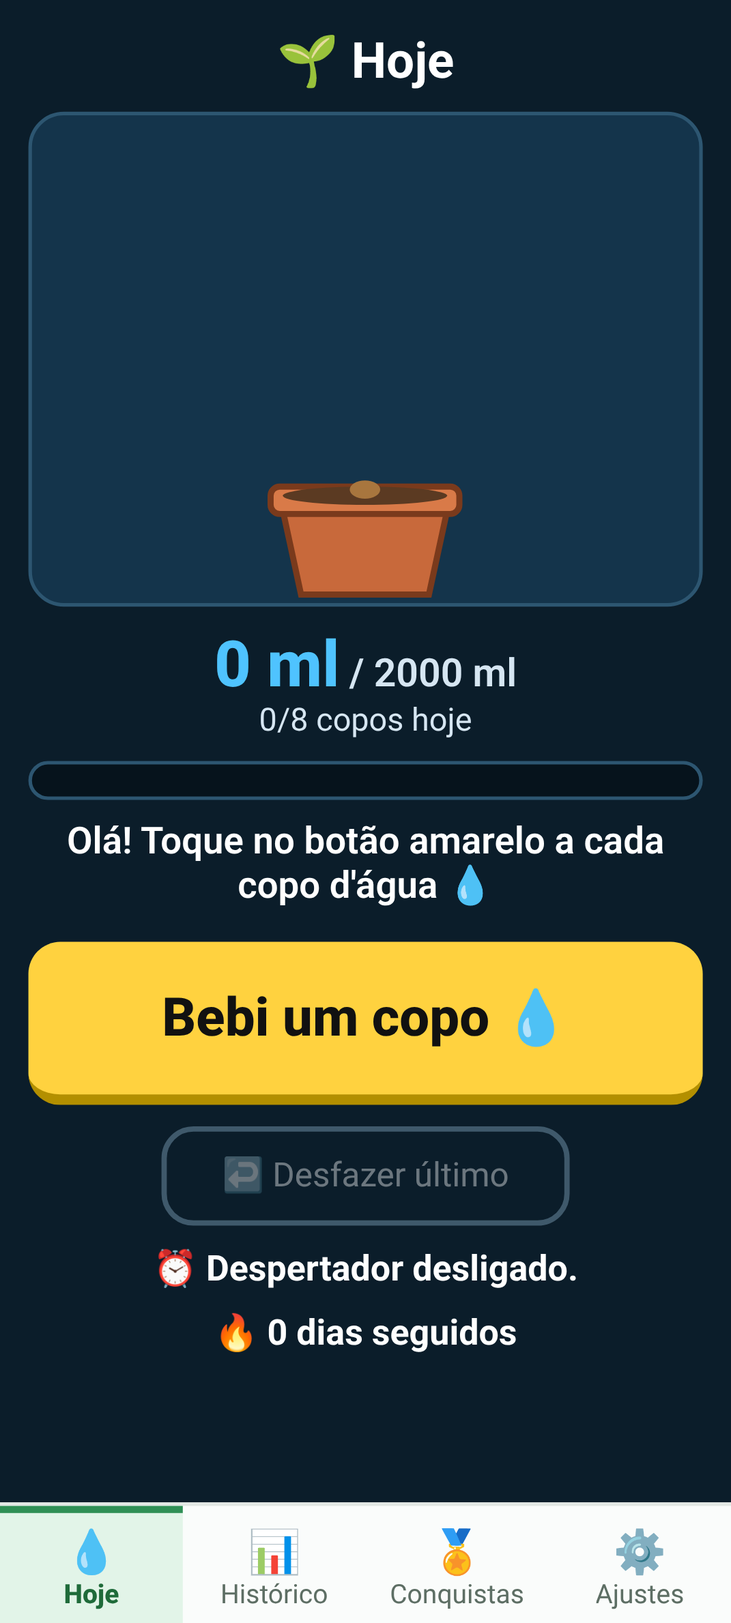
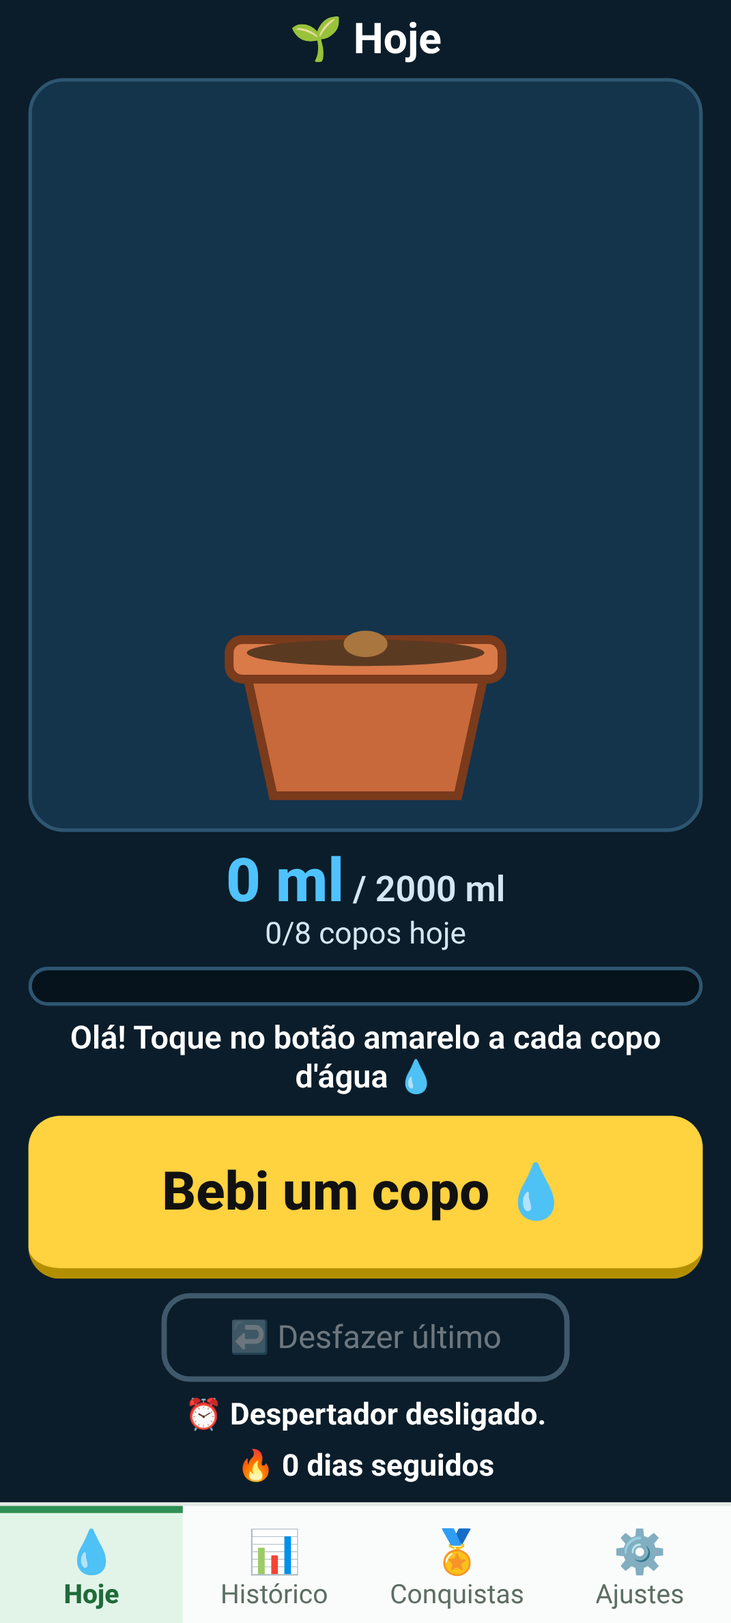
Sem rolagem em nenhuma tela (#6)
* Encaixe: componente que faz o conteúdo caber inteiro na área (sem rolagem); reduz em escala só se não couber

* Sem rolagem: Tela sem ScrollView (usa Encaixe); Hoje com planta que ocupa o espaço que sobra; Histórico com barras em % da área; Ajustes compacto (intervalos numa linha, Das/Até lado a lado, testes lado a lado); janelas meta e alarme com Encaixe; fontes e espaços menores

* Teste web: sem-rolagem.cjs (412x915, 360x740; 360x640 e fonte 1,3x informativos) em todas as abas e janelas; teste-web.cjs sem scrollIntoView e +4 itens [sem rolagem] (46); prints-abas.cjs aceita LxA e fotografa as janelas

* README/REGISTRO: sem rolagem (Encaixe, testes, checklist do A14)

---------

diff --git a/src/telas/estilos.ts b/src/telas/estilos.ts
@@ -1,56 +1,60 @@
-// Estilos das 4 abas (mesmas medidas e cores do PWA v5; os novos das abas estão no fim).
+// Estilos das 4 abas (cores do PWA v5; medidas compactadas para NENHUMA tela rolar: v1.2.0 sem rolagem).
 import { StyleSheet } from 'react-native';
 import { cor } from '../tema';
 
 export const st = StyleSheet.create({
   fundo: { flex: 1, backgroundColor: cor.fundo },
-  rolagem: { alignItems: 'center' },
-  main: { width: '100%', maxWidth: 480, paddingTop: 14, paddingHorizontal: 16, paddingBottom: 28, gap: 12 },
-  h1: { fontSize: 28, fontWeight: '700', color: cor.texto, textAlign: 'center', marginTop: 4 },
-  h2: { fontSize: 22, fontWeight: '700', color: cor.texto },
+  centro: { alignItems: 'center' },
+  main: { flexGrow: 1, width: '100%', maxWidth: 480, paddingTop: 8, paddingHorizontal: 16, paddingBottom: 10, gap: 8 },
+  h1: { fontSize: 24, fontWeight: '700', color: cor.texto, textAlign: 'center' },
+  h2: { fontSize: 19, fontWeight: '700', color: cor.texto },
   barra: { height: 22, backgroundColor: cor.escuro, borderRadius: 12, overflow: 'hidden', borderWidth: 2, borderColor: cor.borda },
   barraIn: { height: '100%', backgroundColor: cor.agua },
-  palco: { backgroundColor: '#14344b', borderRadius: 20, borderWidth: 2, borderColor: cor.borda, overflow: 'hidden', position: 'relative' },
-  msg: { fontSize: 21, color: cor.texto, textAlign: 'center', minHeight: 56, fontWeight: '600' },
-  msgAlerta: { backgroundColor: cor.alertaFundo, borderWidth: 2, borderColor: cor.botao, borderRadius: 14, padding: 10 },
-  beber: { backgroundColor: cor.botao, borderRadius: 18, paddingVertical: 22, paddingHorizontal: 10, minHeight: 92, justifyContent: 'center', borderBottomWidth: 6, borderBottomColor: cor.botaoSombra },
+  palco: { flexGrow: 1, flexBasis: 0, minHeight: 90, alignItems: 'center', justifyContent: 'center', backgroundColor: '#14344b', borderRadius: 20, borderWidth: 2, borderColor: cor.borda, overflow: 'hidden', position: 'relative' },
+  msg: { fontSize: 18, color: cor.texto, textAlign: 'center', minHeight: 46, fontWeight: '600' },
+  msgAlerta: { backgroundColor: cor.alertaFundo, borderWidth: 2, borderColor: cor.botao, borderRadius: 14, paddingVertical: 4, paddingHorizontal: 8 },
+  beber: { backgroundColor: cor.botao, borderRadius: 18, paddingVertical: 12, paddingHorizontal: 10, minHeight: 92, justifyContent: 'center', borderBottomWidth: 6, borderBottomColor: cor.botaoSombra },
   beberTx: { fontSize: 30, fontWeight: '800', color: cor.botaoTx, textAlign: 'center' },
-  sec: { flex: 1, borderWidth: 3, borderColor: cor.contorno, borderRadius: 18, paddingVertical: 14, paddingHorizontal: 8, minHeight: 60, justifyContent: 'center' },
+  sec: { flex: 1, borderWidth: 3, borderColor: cor.contorno, borderRadius: 16, paddingVertical: 8, paddingHorizontal: 8, minHeight: 50, justifyContent: 'center' },
   cheio: { flex: 0, width: '100%' },
-  secTx: { fontSize: 19, color: cor.texto, textAlign: 'center' },
-  painel: { backgroundColor: cor.cartao, borderWidth: 2, borderColor: cor.borda, borderRadius: 16, padding: 12, gap: 10 },
-  hist: { flexDirection: 'row', gap: 4, alignItems: 'flex-end', height: 150 },
+  secTx: { fontSize: 18, color: cor.texto, textAlign: 'center' },
+  painel: { backgroundColor: cor.cartao, borderWidth: 2, borderColor: cor.borda, borderRadius: 16, padding: 10, gap: 6 },
+  hist: { flexDirection: 'row', gap: 4, alignItems: 'stretch', flexGrow: 1, flexBasis: 0, minHeight: 110 },
   histCol: { flex: 1, alignItems: 'center', justifyContent: 'flex-end', height: '100%', minWidth: 0 },
   histTx: { fontSize: 14, color: cor.suave },
+  histArea: { flex: 1, width: '100%', alignItems: 'center', justifyContent: 'flex-end' },
   histBarra: { width: '70%', borderTopLeftRadius: 6, borderTopRightRadius: 6 },
   histLetra: { fontSize: 15, fontWeight: '700', color: cor.suave, paddingHorizontal: 4 },
   histHoje: { color: '#fff', fontWeight: '800' },
   histHojeB: { borderWidth: 2, borderColor: cor.botao, borderRadius: 6 },
   resumo: { fontSize: 17, color: cor.texto, textAlign: 'center' },
-  medalhas: { flexDirection: 'row', flexWrap: 'wrap', gap: 8 },
-  medalha: { width: '48.5%', flexGrow: 1, flexBasis: '45%', backgroundColor: cor.escuro, borderWidth: 2, borderColor: cor.botao, borderRadius: 14, paddingVertical: 8, paddingHorizontal: 6, alignItems: 'center' },
+  medalhas: { flexDirection: 'row', flexWrap: 'wrap', gap: 6 },
+  medalha: { width: '48.5%', flexGrow: 1, flexBasis: '45%', backgroundColor: cor.escuro, borderWidth: 2, borderColor: cor.botao, borderRadius: 14, paddingVertical: 6, paddingHorizontal: 6, alignItems: 'center', justifyContent: 'center' },
   medalhaBloq: { borderColor: cor.borda },
-  medalhaEm: { fontSize: 34, lineHeight: 42 },
-  medalhaNome: { fontSize: 17, fontWeight: '700', color: cor.texto, textAlign: 'center' },
+  medalhaEm: { fontSize: 30, lineHeight: 36 },
+  medalhaNome: { fontSize: 16, fontWeight: '700', color: cor.texto, textAlign: 'center' },
   medalhaInfo: { fontSize: 14, color: cor.suave, textAlign: 'center' },
-  rotulo: { fontSize: 20, color: cor.texto },
-  grade: { flexDirection: 'row', flexWrap: 'wrap', gap: 8 },
-  opcao: { flexGrow: 1, flexBasis: '30%', minHeight: 56, borderWidth: 3, borderColor: cor.contorno, borderRadius: 14, justifyContent: 'center', paddingHorizontal: 4 },
+  rotulo: { fontSize: 17, color: cor.texto },
+  grade: { flexDirection: 'row', gap: 5 },
+  opcao: { flex: 1, minHeight: 48, borderWidth: 3, borderColor: cor.contorno, borderRadius: 12, justifyContent: 'center', paddingHorizontal: 1 },
   opcaoOn: { backgroundColor: cor.agua, borderColor: cor.agua },
-  opcaoTx: { fontSize: 19, fontWeight: '800', color: cor.texto, textAlign: 'center' },
-  hora: { flexDirection: 'row', alignItems: 'center', gap: 8 },
-  passo: { width: 60, height: 56, borderRadius: 14, backgroundColor: cor.agua, justifyContent: 'center' },
-  passoTx: { fontSize: 30, fontWeight: '800', color: '#002', textAlign: 'center' },
-  horaTx: { flex: 1, fontSize: 26, fontWeight: '800', color: cor.texto, textAlign: 'center', backgroundColor: cor.escuro, borderWidth: 2, borderColor: cor.contorno, borderRadius: 12, paddingVertical: 8 },
-  prox: { fontSize: 20, fontWeight: '700', color: cor.agua },
-  aviso: { fontSize: 16, color: cor.suave, textAlign: 'center' },
-  veu: { flex: 1, backgroundColor: 'rgba(0,0,0,.7)', alignItems: 'center', justifyContent: 'center', padding: 16 },
-  dialogo: { backgroundColor: cor.cartao, borderWidth: 2, borderColor: cor.agua, borderRadius: 18, padding: 18, width: '100%', maxWidth: 420, gap: 8 },
+  opcaoTx: { fontSize: 15, fontWeight: '800', color: cor.texto, textAlign: 'center' },
+  horas: { flexDirection: 'row', gap: 10 },
+  horaCol: { flex: 1, gap: 2 },
+  hora: { flexDirection: 'row', alignItems: 'center', gap: 4 },
+  passo: { width: 42, height: 48, borderRadius: 14, backgroundColor: cor.agua, justifyContent: 'center' },
+  passoTx: { fontSize: 28, fontWeight: '800', color: '#002', textAlign: 'center' },
+  horaTx: { flex: 1, fontSize: 19, fontWeight: '800', color: cor.texto, textAlign: 'center', backgroundColor: cor.escuro, borderWidth: 2, borderColor: cor.contorno, borderRadius: 10, paddingVertical: 10 },
+  prox: { fontSize: 17, fontWeight: '700', color: cor.agua },
+  aviso: { fontSize: 14, color: cor.suave, textAlign: 'center' },
+  veu: { flex: 1, backgroundColor: 'rgba(0,0,0,.7)', padding: 16 },
+  veuCentro: { alignItems: 'center', justifyContent: 'center' },
+  dialogo: { backgroundColor: cor.cartao, borderWidth: 2, borderColor: cor.agua, borderRadius: 18, padding: 16, width: '100%', maxWidth: 420, gap: 8 },
   b: { fontSize: 20, fontWeight: '700', color: cor.texto },
   copos: { flexDirection: 'row', gap: 8, marginVertical: 4 },
   copo: { flex: 1, minHeight: 60, borderWidth: 3, borderColor: cor.contorno, borderRadius: 18, justifyContent: 'center', padding: 4 },
   copoTx: { fontSize: 18, fontWeight: '800', color: '#fff', textAlign: 'center' },
-  contador: { flexDirection: 'row', alignItems: 'center', justifyContent: 'center', gap: 16, marginVertical: 10 },
+  contador: { flexDirection: 'row', alignItems: 'center', justifyContent: 'center', gap: 16, marginVertical: 4 },
   cont: { width: 70, height: 70, borderRadius: 18, backgroundColor: cor.agua, justifyContent: 'center' },
   contTx: { fontSize: 36, fontWeight: '800', color: '#002', textAlign: 'center' },
   metaVal: { fontSize: 44, fontWeight: '800', color: cor.texto, minWidth: 56, textAlign: 'center' },
@@ -66,10 +70,11 @@ export const st = StyleSheet.create({
   progresso: { alignItems: 'center' },
   progressoTx: { textAlign: 'center' },
   progressoMl: { fontWeight: '800', color: cor.agua },
-  progressoMeta: { fontSize: 22, fontWeight: '600', color: cor.suave },
-  progressoCopos: { fontSize: 18, color: cor.suave, textAlign: 'center' },
-  desfazer: { flex: 0, alignSelf: 'center', minWidth: 230, minHeight: 56, paddingVertical: 10 },
-  infoHoje: { fontSize: 20, fontWeight: '700', color: cor.texto, textAlign: 'center' },
+  progressoMeta: { fontSize: 20, fontWeight: '600', color: cor.suave },
+  progressoCopos: { fontSize: 17, color: cor.suave, textAlign: 'center' },
+  desfazer: { flex: 0, alignSelf: 'center', minWidth: 230, minHeight: 50, paddingVertical: 8 },
+  infoHoje: { fontSize: 17, fontWeight: '700', color: cor.texto, textAlign: 'center' },
   alertaBotao: { backgroundColor: cor.alertaFundo, borderColor: cor.botao },
-  histAlto: { height: 260 },
+  linha: { flexDirection: 'row', gap: 8 },
+  cresce: { flexGrow: 1 },
 });

diff --git a/src/telas/Ajustes.tsx b/src/telas/Ajustes.tsx
@@ -26,8 +26,7 @@ export default function Ajustes({ p }: { p: Plantinha }) {
       <Mensagem p={p} />
 
       <View style={st.painel} accessibilityLabel="Meta">
-        <Text style={st.h2}>🎯 Meta do dia</Text>
-        <Text testID="aMeta" style={st.rotulo}>{e.meta + ' copos de ' + e.copoMl + ' ml = ' + e.meta * e.copoMl + ' ml (' + L.litros(e.meta * e.copoMl) + ')'}</Text>
+        <Text style={st.rotulo}><Text style={st.h2}>🎯 Meta do dia: </Text><Text testID="aMeta">{e.meta + ' copos de ' + e.copoMl + ' ml = ' + e.meta * e.copoMl + ' ml (' + L.litros(e.meta * e.copoMl) + ')'}</Text></Text>
         <Botao testID="config" onPress={p.abrirMeta} style={[st.sec, st.cheio]} textStyle={st.secTx}>✏ Mudar copo e meta</Botao>
         <Text style={st.aviso}>A meta é só uma referência ajustável, não é orientação médica. Na dúvida, converse com seu médico.</Text>
       </View>
@@ -45,18 +44,24 @@ export default function Ajustes({ p }: { p: Plantinha }) {
             <Botao key={i} testID={'dInt' + i} onPress={() => p.mudarDesp('intervalo', i)} pressed={d.intervalo === i} style={[st.opcao, d.intervalo === i && st.opcaoOn]} textStyle={[st.opcaoTx, d.intervalo === i && { color: '#002' }]}>{ROTULO_INT[i]}</Botao>
           ))}
         </View>
-        {(['inicio', 'fim'] as const).map((k) => (
-          <View key={k} style={st.hora}>
-            <Text style={[st.rotulo, { width: 52 }]}>{k === 'inicio' ? 'Das' : 'Até'}</Text>
-            <Botao testID={k + 'Menos'} rotulo={'Mais cedo'} onPress={() => p.mudarDesp(k, hhmmMais(d[k], -15))} style={st.passo} textStyle={st.passoTx}>−</Botao>
-            <Text testID={k === 'inicio' ? 'dIni' : 'dFim'} style={st.horaTx}>{d[k]}</Text>
-            <Botao testID={k + 'Mais'} rotulo={'Mais tarde'} onPress={() => p.mudarDesp(k, hhmmMais(d[k], 15))} style={st.passo} textStyle={st.passoTx}>+</Botao>
-          </View>
-        ))}
+        <View style={st.horas}>
+          {(['inicio', 'fim'] as const).map((k) => (
+            <View key={k} style={st.horaCol}>
+              <Text style={st.rotulo}>{k === 'inicio' ? 'Das' : 'Até'}</Text>
+              <View style={st.hora}>
+                <Botao testID={k + 'Menos'} rotulo={'Mais cedo'} onPress={() => p.mudarDesp(k, hhmmMais(d[k], -15))} style={st.passo} textStyle={st.passoTx}>−</Botao>
+                <Text testID={k === 'inicio' ? 'dIni' : 'dFim'} style={st.horaTx}>{d[k]}</Text>
+                <Botao testID={k + 'Mais'} rotulo={'Mais tarde'} onPress={() => p.mudarDesp(k, hhmmMais(d[k], 15))} style={st.passo} textStyle={st.passoTx}>+</Botao>
+              </View>
+            </View>
+          ))}
+        </View>
         <Text style={st.rotulo}>😴 Soneca: 10 min (botão "Daqui a pouco" no alarme)</Text>
         <Text testID="dProx" style={st.prox} accessibilityLiveRegion="polite">{proxTxt}</Text>
-        <Botao testID="dTeste" onPress={p.testarDespertador} style={[st.sec, st.cheio]} textStyle={st.secTx}>🔊 Testar despertador</Botao>
-        {AVISA_FECHADO && <Botao testID="dTesteFechado" onPress={p.testarFechado} style={[st.sec, st.cheio]} textStyle={st.secTx}>⏱ Testar lembrete em 1 min</Botao>}
+        <View style={st.linha}>
+          <Botao testID="dTeste" onPress={p.testarDespertador} style={st.sec} textStyle={st.secTx}>🔊 Testar despertador</Botao>
+          {AVISA_FECHADO && <Botao testID="dTesteFechado" onPress={p.testarFechado} style={st.sec} textStyle={st.secTx}>⏱ Testar lembrete em 1 min</Botao>}
+        </View>
         <Text style={st.aviso}>{Platform.OS === 'web' ? 'Mantenha o app aberto; ele toca enquanto estiver aberto ou recém-fechado.' : ALARME_NATIVO ? 'Toca como despertador, até com o app fechado e a tela bloqueada, e só para quando você tocar em "Já bebi" ou "Daqui a pouco". Precisa das notificações ativadas. Celular desligado não toca.' : 'Com o app aberto, toca o alarme. Com o app fechado ou a tela apagada, o celular toca o lembrete (precisa das notificações ativadas). Celular desligado não toca.'}</Text>
       </View>
     </Tela>

diff --git a/src/componentes/Dialogos.tsx b/src/componentes/Dialogos.tsx
@@ -3,6 +3,7 @@ import { Modal, Platform, Pressable, Text, View } from 'react-native';
 import * as L from '../logica/jogo';
 import type { Plantinha } from '../estado/usePlantinha';
 import Botao from './Botao';
+import Encaixe from './Encaixe';
 import { st } from '../telas/estilos';
 
 export function DialogoMeta({ p }: { p: Plantinha }) {
@@ -11,6 +12,7 @@ export function DialogoMeta({ p }: { p: Plantinha }) {
   return (
     <Modal visible={p.dlg} transparent animationType="fade" onRequestClose={p.fecharDlg}>
       <View style={st.veu}>
+        <Encaixe style={st.veuCentro} testID="encaixe-meta">
         <View style={st.dialogo}>
           <Text style={st.b}>Tamanho do copo:</Text>
           <View testID="copos-ml" style={st.copos}>
@@ -26,9 +28,10 @@ export function DialogoMeta({ p }: { p: Plantinha }) {
           </View>
           <Text testID="metaLitros" style={st.aviso}>{'= ' + p.metaTemp * p.copoTemp + ' ml (' + L.litros(p.metaTemp * p.copoTemp) + ')'}</Text>
           <Text style={st.aviso}>Referência ajustável, não é orientação médica.</Text>
-          <Botao testID="notif" disabled={perm !== 'default'} onPress={p.permitirNotificacoes} style={[st.sec, st.cheio, { marginTop: 10 }]} textStyle={st.secTx}>{txtNotif}</Botao>
+          <Botao testID="notif" disabled={perm !== 'default'} onPress={p.permitirNotificacoes} style={[st.sec, st.cheio, { marginTop: 6 }]} textStyle={st.secTx}>{txtNotif}</Botao>
           <Botao testID="salvar" onPress={p.salvarMeta} style={st.ok} textStyle={st.okTx}>Salvar</Botao>
         </View>
+        </Encaixe>
       </View>
     </Modal>
   );
@@ -38,11 +41,13 @@ export function TelaAlarme({ p }: { p: Plantinha }) {
   return (
     <Modal visible={p.alarme} transparent animationType="fade" onRequestClose={p.fecharAlarme}>
       <View style={[st.veu, { backgroundColor: 'rgba(0,0,0,.88)' }]} accessibilityRole="alert">
+        <Encaixe style={st.veuCentro} testID="encaixe-alarme">
         <View style={[st.dialogo, { borderWidth: 3, gap: 14 }]}>
           <Text testID="alTit" style={st.alTit}>💧 Hora de beber água!</Text>
           <Botao testID="alBebi" onPress={p.bebiNoAlarme} style={st.alBebi} textStyle={st.alBebiTx}>Bebi um copo 💧</Botao>
           <Botao testID="alSoneca" onPress={p.soneca} style={[st.sec, st.cheio]} textStyle={st.secTx}>😴 Soneca 10 min</Botao>
         </View>
+        </Encaixe>
       </View>
     </Modal>
   );

diff --git a/src/telas/Hoje.tsx b/src/telas/Hoje.tsx
@@ -1,4 +1,5 @@
 // Aba Hoje: planta, progresso (ml de hoje / meta), "Bebi um copo", "Desfazer", próximo lembrete e sequência.
+import { useState } from 'react';
 import { Text, View, useWindowDimensions } from 'react-native';
 import * as L from '../logica/jogo';
 import { ALARME_NATIVO, AVISA_FECHADO } from '../lembretes/notificacoes';
@@ -12,13 +13,15 @@ import { Confete, Gota } from '../componentes/Efeitos';
 import { st } from './estilos';
 
 /** Placar numa linha só: diminui a fonte em textos longos. */
-const tam = (t: string) => ({ fontSize: t.length >= 9 ? 30 : 36 });
+const tam = (t: string) => ({ fontSize: t.length >= 9 ? 30 : 34 });
 
 export default function Hoje({ p, irPara }: { p: Plantinha; irPara: (a: AbaId) => void }) {
-  const { width, height } = useWindowDimensions();
+  const { width } = useWindowDimensions();
+  const [altPalco, setAltPalco] = useState(0);
   const e = p.est, d = p.desp;
   const larguraMain = Math.min(width, 480) - 32;
-  const larguraPlanta = Math.min(larguraMain - 4, (height * 0.3 * 300) / 320); // menor que na tela única: a aba cabe sem rolar
+  // sem rolagem: a planta ocupa o espaço que sobra na tela (o palco cresce/encolhe com flex)
+  const larguraPlanta = Math.max(40, Math.min(larguraMain - 8, ((altPalco - 8) * 300) / 320));
   const s = L.estagio(e);
   const prox = p.prox;
   const proxTxt = prox === null ? 'Despertador desligado.' : 'Próximo lembrete às ' + L.hhmm(prox) + (L.diaDe(prox) !== L.diaDe(Date.now()) ? ' (amanhã)' : '') + (d.soneca ? ' 😴' : '');
@@ -27,8 +30,8 @@ export default function Hoje({ p, irPara }: { p: Plantinha; irPara: (a: AbaId) =
 
   return (
     <Tela titulo="🌱 Hoje">
-      <View style={st.palco}>
-        <View style={{ width: larguraPlanta, alignSelf: 'center' }}>
+      <View style={st.palco} onLayout={(ev) => setAltPalco(ev.nativeEvent.layout.height)}>
+        <View style={{ width: larguraPlanta }}>
           <Planta estagio={s} murcha={p.murcha} largura={larguraPlanta} />
           {p.gotas.map((g) => <Gota key={g} largura={larguraPlanta} onFim={() => p.tirarGota(g)} />)}
         </View>

diff --git a/src/telas/Historico.tsx b/src/telas/Historico.tsx
@@ -10,15 +10,17 @@ export default function Historico({ p }: { p: Plantinha }) {
   const w = L.semana(p.est);
   return (
     <Tela titulo="📊 Histórico">
-      <View style={st.painel} accessibilityLabel="Últimos 7 dias">
+      <View style={[st.painel, st.cresce]} accessibilityLabel="Últimos 7 dias">
         <Text style={st.h2}>Últimos 7 dias <Text style={{ fontSize: 15, fontWeight: '400' }}>(ml)</Text></Text>
-        <View testID="hist" style={[st.hist, st.histAlto]}>
+        <View testID="hist" style={st.hist}>
           {w.map((o) => {
             const x = o.reg, h = x ? Math.round(Math.min(1, x.copos / x.meta) * 100) : 0;
             return (
               <View key={o.dia} style={st.histCol} accessibilityLabel={o.dia}>
                 <Text style={[st.histTx, o.hoje && st.histHoje]}>{x ? x.ml : '–'}</Text>
-                <View style={[st.histBarra, { height: Math.max(3, h * 2) }, { backgroundColor: !x ? cor.borda : o.bateu ? cor.verde : cor.agua }]} />
+                <View style={st.histArea}>
+                  <View style={[st.histBarra, { height: h > 1 ? (h + '%') as `${number}%` : 3 }, { backgroundColor: !x ? cor.borda : o.bateu ? cor.verde : cor.agua }]} />
+                </View>
                 <Text style={[st.histLetra, o.hoje && st.histHoje, o.hoje && st.histHojeB]}>{o.letra}</Text>
               </View>
             );

diff --git a/src/componentes/Encaixe.tsx b/src/componentes/Encaixe.tsx
@@ -1,0 +1,21 @@
+// Encaixe: garante que o conteúdo caiba INTEIRO na área disponível, sem rolagem e sem cortar nada.
+// O conteúdo ocupa pelo menos a altura da área (para os itens com flex crescerem, ex. a planta);
+// se mesmo assim ficar mais alto (celular pequeno, fonte do sistema grande), ele é reduzido
+// proporcionalmente (escala) até caber. Nunca esconde informação.
+import { useState, type ReactNode } from 'react';
+import { View, type StyleProp, type ViewStyle } from 'react-native';
+
+export default function Encaixe({ children, style, testID = 'encaixe' }: { children: ReactNode; style?: StyleProp<ViewStyle>; testID?: string }) {
+  const [area, setArea] = useState(0);
+  const [alto, setAlto] = useState(0);
+  const escala = area > 0 && alto > area + 0.5 ? area / alto : 1;
+  return (
+    <View style={{ flex: 1, overflow: 'hidden' }} onLayout={(ev) => setArea(ev.nativeEvent.layout.height)}>
+      <View testID={testID} onLayout={(ev) => setAlto(ev.nativeEvent.layout.height)}
+        style={[{ position: 'absolute', top: 0, left: 0, right: 0, minHeight: area },
+          escala < 1 && { transform: [{ translateY: -(alto - alto * escala) / 2 }, { scale: escala }] }, style]}>
+        {children}
+      </View>
+    </View>
+  );
+}

diff --git a/src/componentes/Tela.tsx b/src/componentes/Tela.tsx
@@ -1,15 +1,17 @@
-// Moldura comum das abas: rolagem (para celulares pequenos), coluna de até 480 px e título da aba.
+// Moldura comum das abas: SEM rolagem. Coluna de até 480 px com o título da aba, que ocupa a altura
+// disponível (acima da barra de abas); o Encaixe reduz tudo proporcionalmente se não couber.
 import type { ReactNode } from 'react';
-import { ScrollView, Text, View } from 'react-native';
+import { Text, View } from 'react-native';
+import Encaixe from './Encaixe';
 import { st } from '../telas/estilos';
 
 export default function Tela({ titulo, children }: { titulo: string; children: ReactNode }) {
   return (
-    <ScrollView contentContainerStyle={st.rolagem} keyboardShouldPersistTaps="handled">
+    <Encaixe style={st.centro}>
       <View style={st.main}>
         <Text style={st.h1} accessibilityRole="header">{titulo}</Text>
         {children}
       </View>
-    </ScrollView>
+    </Encaixe>
   );
 }

diff --git a/README.md b/README.md
@@ -15,7 +15,8 @@ npm run doctor          # expo-doctor
 npm run export:web      # gera dist/ (é o que a Vercel publica)
 npm run preview:web     # serve dist/ em http://localhost:4173
 npm run test:web        # teste no Chrome headless a 412 px (precisa de puppeteer-core)
-node testes-web/prints-abas.cjs <pasta>   # prints das 4 abas a 390x844 (dados simulados)
+node testes-web/prints-abas.cjs <pasta> [LxA] # prints das 4 abas e janelas (390x844 ou LxA) (dados simulados)
+node testes-web/sem-rolagem.cjs          # nenhuma tela rola nem corta (412x915, 360x740; 360x640 e fonte 1,3x informativos)
 ```
 
 Build Android (APK de teste): `npx eas-cli build -p android --profile preview` (precisa de conta Expo).
@@ -32,7 +33,7 @@ src/
   estado/               usePlantinha.ts: estado ÚNICO do jogo + efeitos (carregar, relógios 30 s/15 s,
                         reagendar, permissões) + ações (beber, desfazer, meta, despertador, soneca, testes)
   telas/                uma por aba: Hoje, Historico, Conquistas, Ajustes + estilos.ts
-  componentes/          Botao, Planta (SVG), Efeitos (gotinha, confete), Tela (moldura da aba),
+  componentes/          Botao, Planta (SVG), Efeitos (gotinha, confete), Tela (moldura da aba, sem rolagem), Encaixe (faz caber),
                         Mensagem, Dialogos (meta, tela do alarme, aviso de medalha)
   logica/               regras sem tela, testadas no Jest:
                         jogo.ts (copos, meta, histórico, despertador, medalhas),
@@ -50,6 +51,17 @@ Chaves do AsyncStorage: `plantinhaSedenta.v1`, `.despertador`, `.medalhas` (igua
 
 ## Abas (v1.2.0)
 4 abas fixas embaixo (proposta B): **💧 Hoje** (planta, ml de hoje / meta, "Bebi um copo", "Desfazer", próximo lembrete, sequência), **📊 Histórico** (últimos 7 dias + média), **🏅 Conquistas** (6 medalhas), **⚙ Ajustes** (copo e meta, despertador, soneca 10 min, testes e botões ⚠ de permissão). Se faltar permissão do alarme, a aba Hoje mostra um botão ⚠ que leva para Ajustes. O app sempre abre em Hoje.
+
+## Sem rolagem
+Nenhuma tela rola (abas, janelas meta/alarme, aviso de medalha): não há `ScrollView`. A planta da aba Hoje e o gráfico do Histórico ocupam o espaço que sobra; se o conteúdo não couber (tela pequena ou fonte do sistema grande), `src/componentes/Encaixe.tsx` reduz a tela inteira proporcionalmente, sem esconder nada. Conferido por `testes-web/sem-rolagem.cjs`.
+
+### Teste sem rolagem no A14
+1. Instale/abra o app (ou o link de preview da Vercel no Chrome: ele mostra a versão web).
+2. Em cada aba (Hoje, Histórico, Conquistas, Ajustes), tente arrastar a tela para cima: nada deve rolar.
+3. Confira que nada está cortado: título no alto, barra de abas embaixo; em Hoje, "Bebi um copo" e "Desfazer" visíveis.
+4. Ajustes: os 5 intervalos, Das/Até com − e +, "Testar despertador" e o texto de baixo aparecem inteiros.
+5. Ajustes > "Mudar copo e meta": a janela aparece inteira com "Salvar". "Testar despertador": a tela de alarme aparece inteira.
+6. Beba o 1º copo do dia: o aviso de medalha aparece sem empurrar nada.
 
 ## Google Play
 Nada publicado. O que falta e o passo a passo estão em [docs/play-store/](docs/play-store/README.md): assinatura com chave de upload, revisão das permissões (há riscos reais com `USE_EXACT_ALARM` e o serviço `mediaPlayback`), rascunhos da política de privacidade e da ficha, e a lista do que depende do Paulo.

diff --git a/REGISTRO.md b/REGISTRO.md
@@ -148,3 +148,10 @@ Pedido: Paulo (via Coordenador de Apps) aprovou a proposta B: 4 abas fixas embai
[1 lines of base64/hex data omitted]
 - **Não testado em aparelho** (o emulador da box travou nas 2 vezes anteriores; não tentei de novo). Checklist do A23 no README ("Teste das abas no A23").
 - Prints da web a 390×844 com **dados simulados**: `/workspace/jogos/agua-expo-entrega/prints-abas/` (gerados por `testes-web/prints-abas.cjs`).
+
+## 28/10/2026 — Sem rolagem em nenhuma tela (pedido do Paulo via Líder Pedro) — branch `fix/sem-rolagem`
+- Base: `a4fa61b` (main do GitHub, já com o PR 5 das abas mesclado). Sem versão nova, sem APK, sem deploy.
+- Mudou só tela: `src/componentes/Tela.tsx` (sem `ScrollView`), `Encaixe.tsx` (novo: cabe inteiro; se não couber, reduz em escala), `Dialogos.tsx` (janelas com Encaixe), `src/telas/*` e `estilos.ts` (Hoje: planta preenche o espaço; Histórico: barras em %; Ajustes: intervalos numa linha, Das/Até lado a lado, testes lado a lado; fontes/espaços menores). Fora de `src/`: só `testes-web/` e README/REGISTRO.
+- Não mexido: lógica, dados, lembretes, alarme nativo (a `AlarmeActivity` Java já não rola), `app.json`, `eas.json`, `package.json`.
+- Testes: tsc OK; Jest 115/115; expo-doctor 17/18 (só o aviso de versões do SDK, não atualizei); export web OK; teste web 46/46 (42 + 4 [sem rolagem]); `sem-rolagem.cjs` 80/80 em 412x915 e 360x740 (+ 360x640 e fonte 1,3x informativos, todos sem rolagem e sem corte; Ajustes e janelas reduzem a 0,93 em 360x740 e 0,80 em 360x640).
+- Prints 412x915 (dados simulados): `/workspace/jogos/agua-expo-entrega/prints-sem-rolagem/`.
